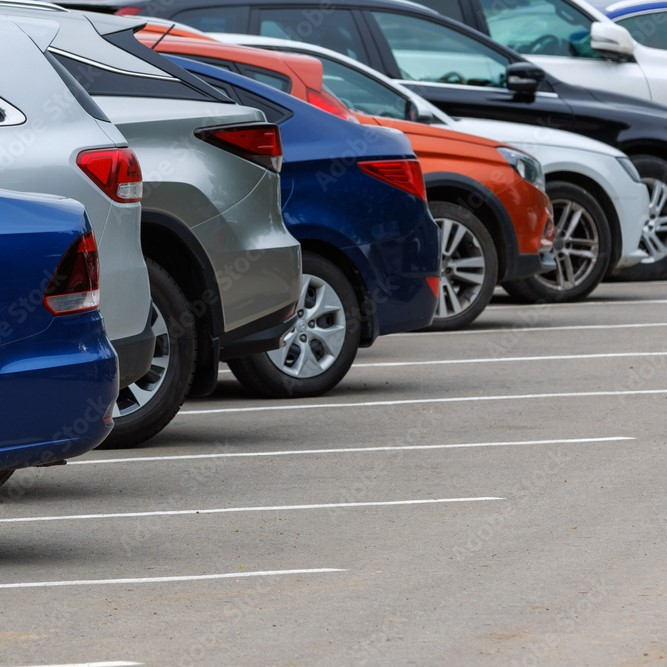
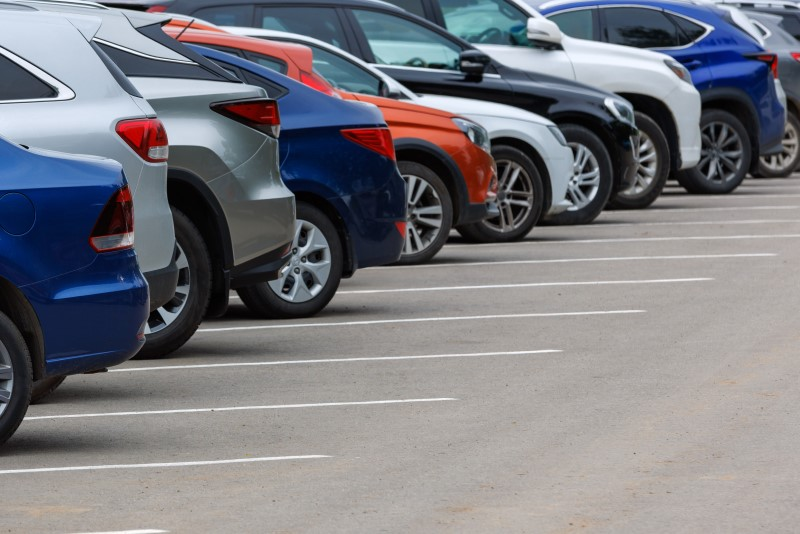
changed asphalt image and sizing of our clients in asphalt page

diff --git a/src/newSrc/pages/asphalt/asphalt.js b/src/newSrc/pages/asphalt/asphalt.js
@@ -4,7 +4,6 @@ import React, { useEffect, useState } from "react";
 import CTA from "../../components/cta/cta";
 import Footer from "../../components/footer/footer";
 import NavWrapper from "../../components/navbar/navWrapper";
-import asphalt from '../../images/asphalt/asphalt.jpeg';
 import parkinglot from '../../images/asphalt/parkinglot.jpeg';
 import commIcon from '../../images/asphalt/commIcon.jpg';
 import multifamilyIcon from '../../images/asphalt/multifamilyIcon.jpg';
@@ -107,9 +106,9 @@ function Asphalt() {
                 </Grid>
             </Box>
 
-            <Box sx={{pb: '20vh', width: {xs: '90vw', md: '80vw'}, maxWidth: '1500px', m: '0 auto'}}>
-                <Grid container spacing={{xs: 5, md: 10}}>
-                    <Grid item xs={12} md={6} my='auto' order={{xs: 2, md: 1}}>
+            <Box sx={{pb: '20vh', width: {xs: '90vw', md: '80vw'}, maxWidth: '2000px', m: '0 auto'}}>
+                <Grid container spacing={{xs: 5, md: 10, xl: 5}}>
+                    <Grid item xs={12} md={6} xl={7} my='auto' order={{xs: 2, md: 1}}>
                         <Grid container spacing={{xs: 3, md: 5, xl: 10}}>
                             <Grid item xs={5} md={3} my='auto' textAlign={screenSize === 'small' ? 'center' : 'left'}>
                                 <img src={commIcon} style={{width: screenSize === 'small' ? '80%' : '100%'}} />
@@ -131,7 +130,7 @@ function Asphalt() {
                             </Grid>
                         </Grid>
                     </Grid>
-                    <Grid item xs={12} md={6} my='auto' order={{xs: 1, md: 2}}>
+                    <Grid item xs={12} md={6} xl={5} my='auto' order={{xs: 1, md: 2}}>
                         <Typography variant='h2' sx={{color: '#0b56a4', fontWeight: 500, mb: 2}}>OUR ASPHALT CLIENTS</Typography>
                         {/* <Typography variant='body2'>Transblue is your one-stop-shop for all your asphalt needs, providing comprehensive services to government, multifamily, and commercial clients. Whether you need asphalt maintenance, repair, or new installation, Transblue can handle projects of any size, from single sites to hundreds of sites across the country.</Typography> */}
                         <Typography variant='body2'>Transblue is a one-stop-shop for all asphalt services, catering to government, multifamily, and commercial clients with equal ease. Whether you have a single site or a large portfolio of properties, our team is equipped to handle all your asphalt needs efficiently and reliably.</Typography>

diff --git a/src/newSrc/pages/test/test.js b/src/newSrc/pages/test/test.js
@@ -1,0 +1,33 @@
+import { Box, Button } from "@mui/material";
+import React, { useEffect, useState } from "react";
+import { useRef } from "react";
+
+function Test() {
+    const ref1 = useRef(null);
+    const ref2 = useRef(null);
+    const [currentY, setCurrentY] = useState(0);
+    
+    function scrollDown() {
+        ref2.current.scrollIntoView({ behavior: 'smooth'});
+    }
+
+    useEffect(() => {
+
+    }, []);
+
+    return (
+        <>
+            <Box sx={{width: '100%', height: '100vh', bgcolor: 'gray'}} ref={ref1}>
+                <Button onClick={scrollDown}>scroll</Button>
+            </Box>
+            <Box sx={{width: '100%', height: '100vh', bgcolor: 'whitesmoke'}} ref={ref2}
+                onScroll={(e) => console.log(e)}
+            >
+
+            </Box>
+        </>
+    )
+
+}
+
+export default Test;

diff --git a/src/App.js b/src/App.js
@@ -11,6 +11,8 @@ import axios from 'axios';
 import { createTheme } from '@mui/material';
 import { ThemeProvider } from '@mui/material';
 
+import Test from './newSrc/pages/test/test';
+
 const Residential = lazy(() => import ('./newSrc/pages/residential/residential'));
 const Commercial = lazy(() => import ('./newSrc/pages/commercial/newCommercial'));
 const Multifamily = lazy(() => import ('./newSrc/pages/multifamily/index'));
@@ -197,6 +199,7 @@ const mounted = async() => {
               <Route exact path='/asphalt' component={Asphalt} />
               <Route exact path='/capex' component={CapEx} />
               <Route exact path='/roofs' component={RoofSnow} />
+              <Route exact path='/test' component={Test} />
             </Suspense>
           </Router>
         </HelmetProvider>

diff --git a/src/newSrc/pages/careers/careers.js b/src/newSrc/pages/careers/careers.js
@@ -49,7 +49,7 @@ function Careers() {
     };
 
     function scrollToApply() {
-        ref.current.scrollIntoView({ behavior: 'smooth' })
+        ref.current.scrollIntoView({ behavior: 'smooth' });
     }
 
     return(
